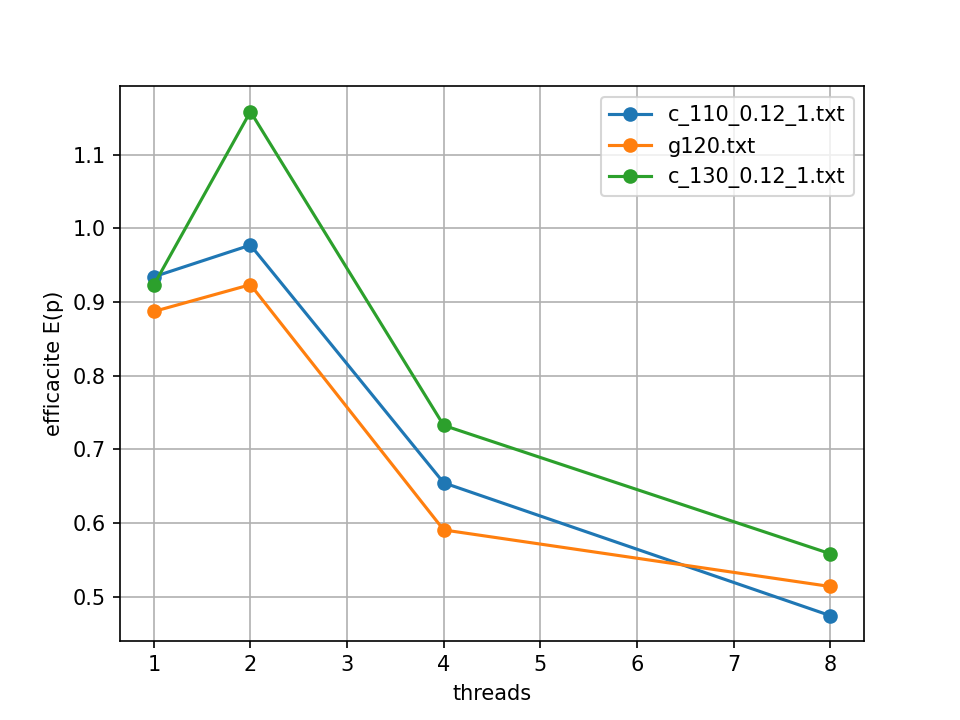
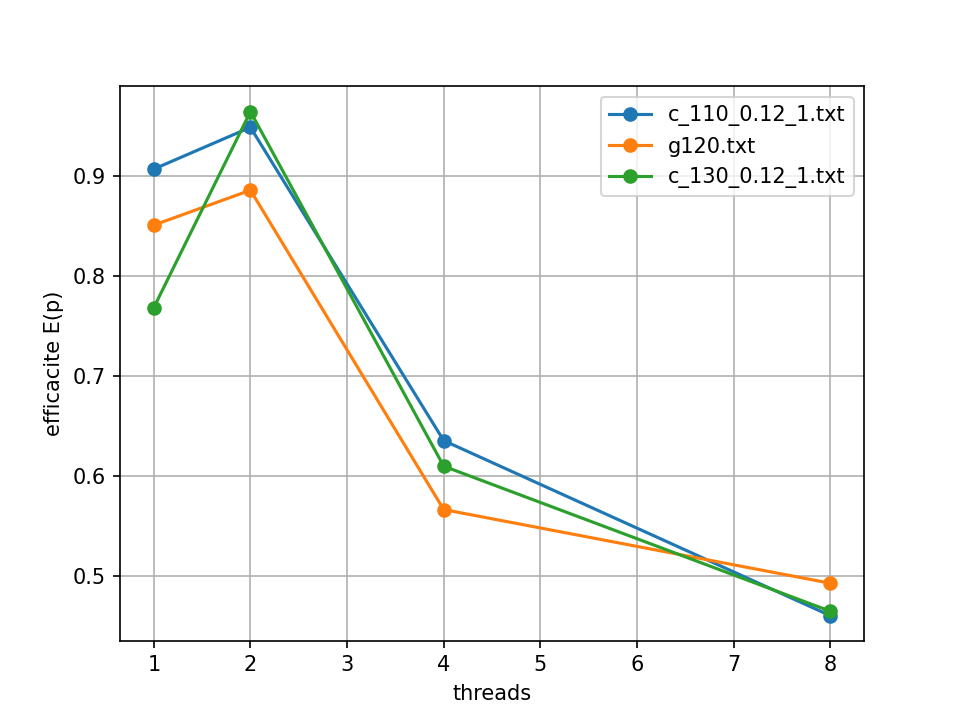
Ts moyen, README

diff --git a/scripts/table.py b/scripts/table.py
@@ -1,8 +1,13 @@
 # Usage: python scripts/table.py   (lit results/times.csv, affiche S(p) et E(p))
+# Ts = moyenne de bt_seq sur tous les nombres de threads du meme graphe.
 import csv
 rows = list(csv.DictReader(open("results/times.csv")))
-print("fichier,p,seq,omp,S,E")
+ts_mean = {}
 for r in rows:
-    ts = float(r["bt_seq"]); tp = float(r["bt_omp"]); p = int(r["threads"])
+    ts_mean.setdefault(r["fichier"], []).append(float(r["bt_seq"]))
+ts_mean = {k: sum(v) / len(v) for k, v in ts_mean.items()}
+print("fichier,p,Ts_moyen,omp,S,E")
+for r in rows:
+    ts = ts_mean[r["fichier"]]; tp = float(r["bt_omp"]); p = int(r["threads"])
     if ts < 0.01 or tp == 0: continue
     print(f'{r["fichier"]},{p},{ts:.3f},{tp:.3f},{ts/tp:.2f},{ts/tp/p:.2f}')

diff --git a/scripts/plot.py b/scripts/plot.py
@@ -30,7 +30,7 @@ plt.savefig("results/plots/temps_threads.png", dpi=150)
 plt.figure()
 for g in graphs:
     rs = rows_of(g)
-    ts = float(rs[0]["bt_seq"])
+    ts = sum(float(r["bt_seq"]) for r in rs) / len(rs)
     if ts < 0.01: continue   # trop petit pour etre significatif
     # si c est trop petit, le speedup ne veut rien dire
     p = [int(r["threads"]) for r in rs]
@@ -43,7 +43,7 @@ plt.savefig("results/plots/speedup.png", dpi=150)
 plt.figure()
 for g in graphs:
     rs = rows_of(g)
-    ts = float(rs[0]["bt_seq"])
+    ts = sum(float(r["bt_seq"]) for r in rs) / len(rs)
     if ts < 0.01: continue
     p = [int(r["threads"]) for r in rs]
     e = [ts / float(r["bt_omp"]) / int(r["threads"]) for r in rs]
